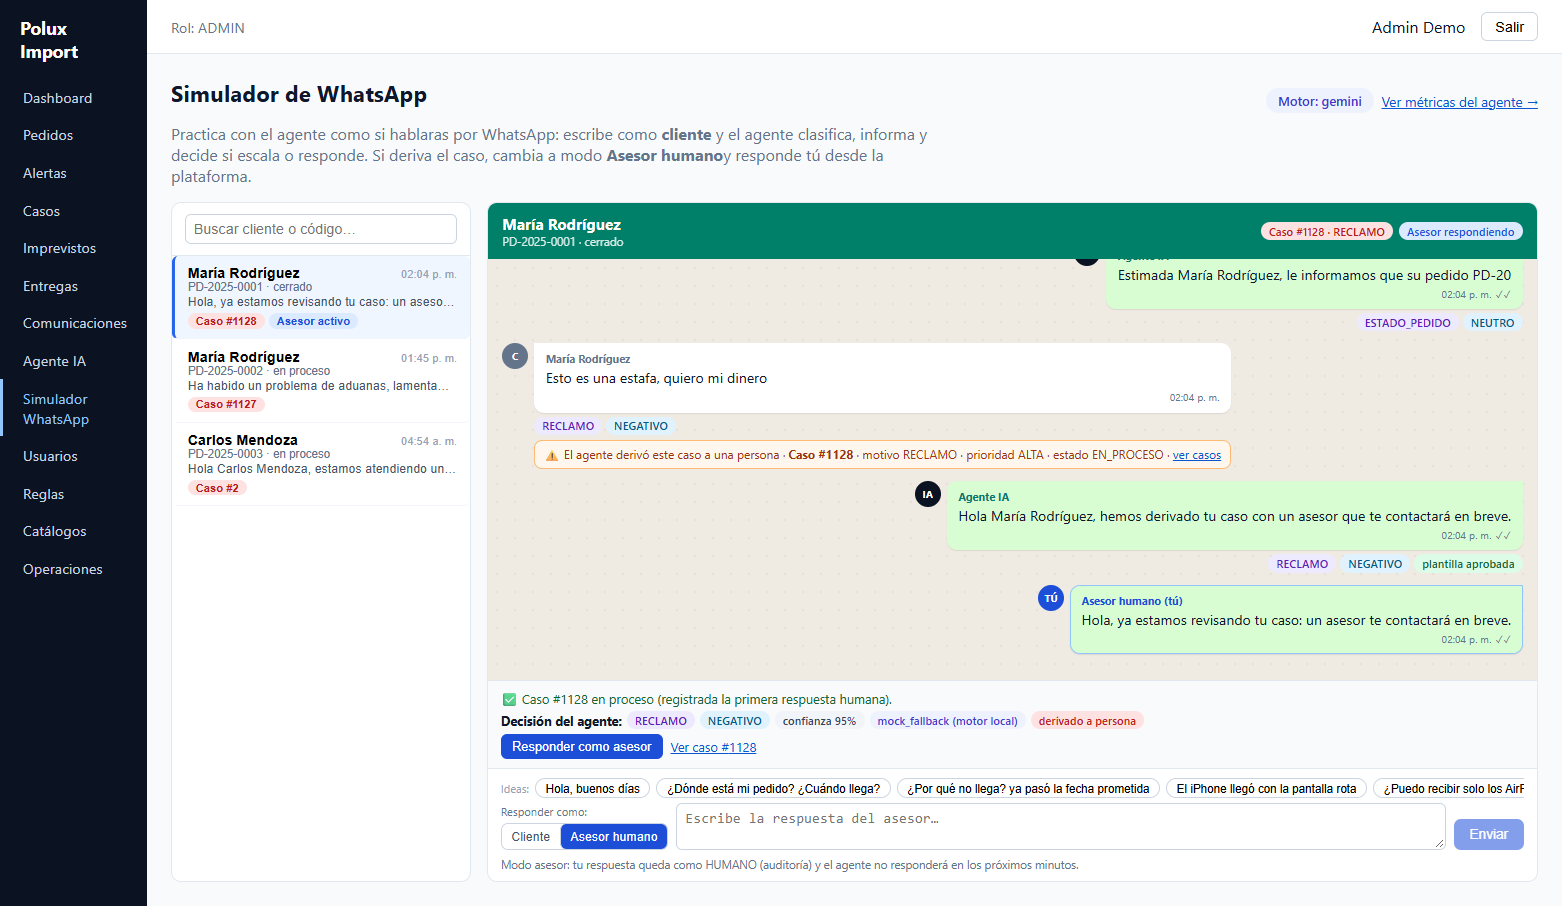
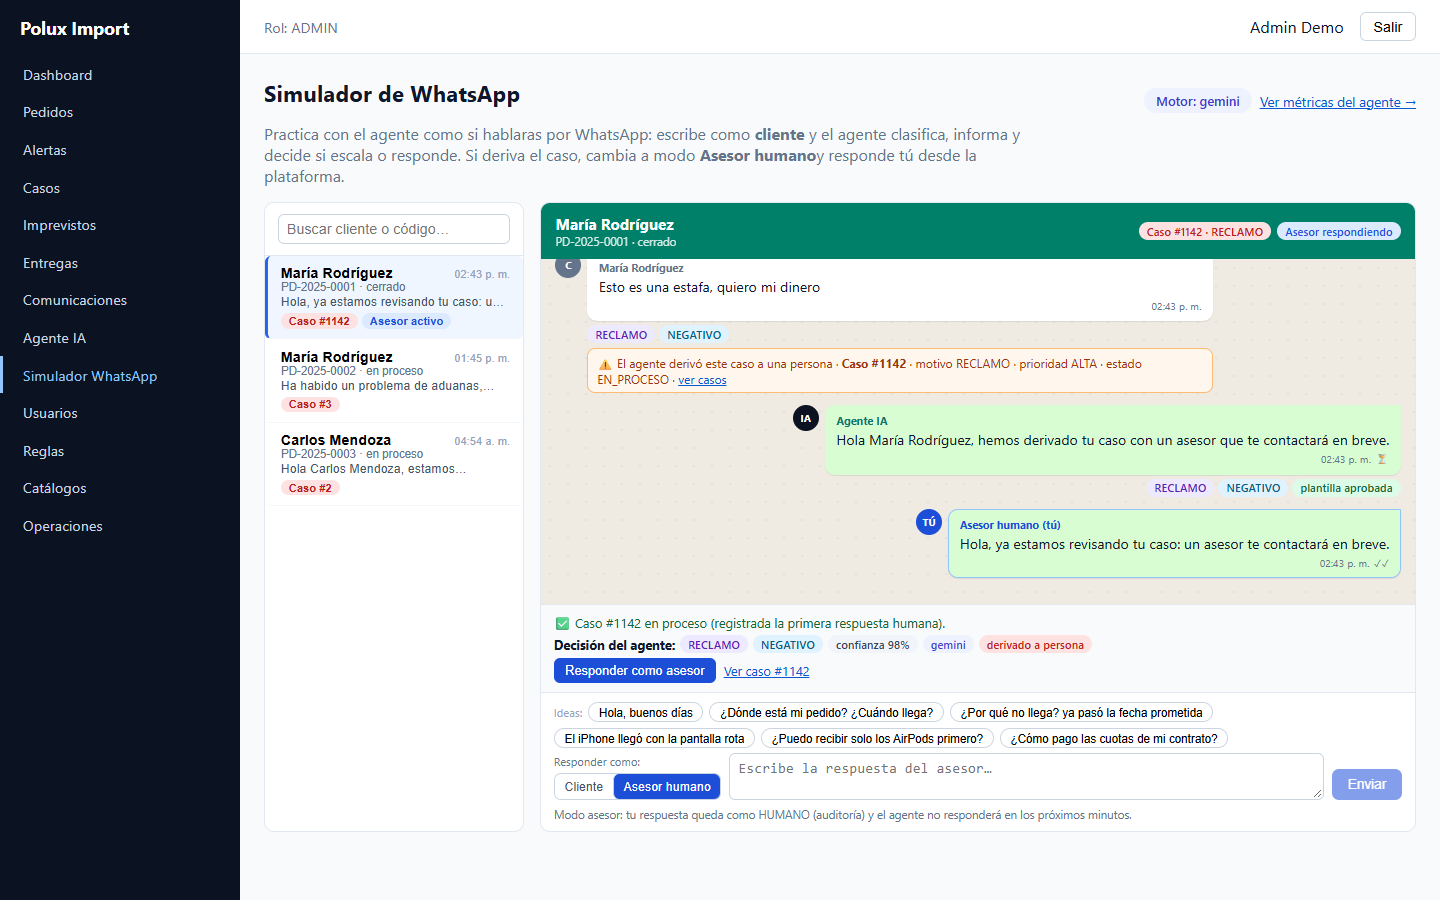
Fix G2: simulador sin desbordamiento y responsive (menu lateral adaptable en movil)
- /simulador: clases .sim-* con min-width 0, alturas con clamp(420px, calc(100vh - 270px), 680px), chips Ideas con wrap (3 en pantallas angostas), previsualizacion del chat con -webkit-line-clamp, formulario con flex-wrap y paneles apilados a <=980px

- Layout: el menu lateral se colapsa a barra superior enrollable a <=760px

- Verificado con Playwright en 10 viewports (390 a 1920): scrollWidth == clientWidth en todos y sin scroll de pagina en escritorio; captura 19 regenerada; docs manual 13, PLAN_FASES y ESTADO_SESION; build + 8 tests frontend y 103 backend en verde

diff --git a/frontend/src/pages/simulador/SimuladorPage.tsx b/frontend/src/pages/simulador/SimuladorPage.tsx
@@ -178,6 +178,40 @@ export function SimuladorPage() {
       <style>{`
         @keyframes polux-parpadeo { 0%, 80%, 100% { opacity: .2 } 40% { opacity: 1 } }
         .polux-punto { animation: polux-parpadeo 1.2s infinite; }
+
+        /* ---- Maquetación responsive del simulador ---- */
+        .sim-fila { display: flex; gap: 1rem; flex-wrap: wrap; align-items: stretch; }
+        .sim-panel {
+          display: flex; flex-direction: column; min-width: 0; overflow: hidden;
+          background: white; border: 1px solid #e2e8f0; border-radius: 10px;
+          height: clamp(420px, calc(100vh - 270px), 680px);
+        }
+        .sim-lista { flex: 0 1 260px; }
+        .sim-chat { flex: 1 1 400px; }
+        .sim-cab { display: flex; align-items: center; justify-content: space-between;
+          gap: .5rem; min-width: 0; }
+        .sim-nombre { font-weight: 700; font-size: .95rem; min-width: 0;
+          overflow: hidden; text-overflow: ellipsis; white-space: nowrap; }
+        .sim-mens {
+          flex: 1; min-width: 0; overflow-y: auto; overflow-x: hidden; padding: .9rem;
+          background: #efeae2;
+          background-image: radial-gradient(rgba(0,0,0,0.045) 1px, transparent 1px);
+          background-size: 18px 18px;
+        }
+        .sim-texto { overflow-wrap: anywhere; word-break: break-word; }
+        .sim-ideas { display: flex; gap: 6px; align-items: center; flex-wrap: wrap;
+          min-width: 0; padding-bottom: 5px; }
+        .sim-form { display: flex; gap: 8px; align-items: flex-end; flex-wrap: wrap;
+          min-width: 0; }
+        .sim-ta { flex: 1 1 180px; min-width: 0; resize: vertical; }
+        .sim-bloque { min-width: 0; }
+        @media (max-width: 980px) {
+          .sim-lista { flex: 1 1 100%; height: 190px; }
+          .sim-chat { flex: 1 1 100%;
+            height: clamp(500px, calc(100vh - 400px), 700px); }
+          /* en pantalla angosta se muestran 3 ideas para no comerse el hilo */
+          .sim-ideas button:nth-child(n+5) { display: none; }
+        }
       `}</style>
 
       <div style={{
@@ -203,13 +237,9 @@ export function SimuladorPage() {
         y responde tú desde la plataforma.
       </p>
 
-      <div style={{ display: "flex", gap: "1rem", flexWrap: "wrap", alignItems: "stretch" }}>
+      <div className="sim-fila">
         {/* ---------- Lista de chats ---------- */}
-        <aside style={{
-          flex: "0 1 300px", background: "white", border: "1px solid #e2e8f0",
-          borderRadius: 10, overflow: "hidden", display: "flex",
-          flexDirection: "column", minHeight: 420, maxHeight: 680,
-        }}>
+        <aside className="sim-panel sim-lista">
           <div style={{ padding: "0.7rem 0.8rem", borderBottom: "1px solid #e2e8f0" }}>
             <input
               value={filtro}
@@ -219,7 +249,7 @@ export function SimuladorPage() {
               aria-label="Buscar cliente o código"
             />
           </div>
-          <div style={{ overflowY: "auto", flex: 1 }}>
+          <div style={{ overflowY: "auto", overflowX: "hidden", flex: 1, minWidth: 0 }}>
             {cargandoChats && <div style={{ padding: "1rem" }}><Loading /></div>}
             {!cargandoChats && visibles.length === 0 && (
               <p style={{ padding: "1rem", color: "#94a3b8", fontSize: "0.85rem" }}>
@@ -256,7 +286,9 @@ export function SimuladorPage() {
                   </div>
                   <div style={{
                     fontSize: "0.78rem", color: "#475569", marginTop: 2,
-                    overflow: "hidden", textOverflow: "ellipsis", whiteSpace: "nowrap",
+                    // una línea con puntos suspensivos: el texto corto no expande el ancho
+                    display: "-webkit-box", WebkitBoxOrient: "vertical",
+                    WebkitLineClamp: 1, overflow: "hidden",
                   }}>
                     {c.total_mensajes === 0
                       ? "Sin mensajes aún"
@@ -277,28 +309,27 @@ export function SimuladorPage() {
         </aside>
 
         {/* ---------- Conversación ---------- */}
-        <section style={{
-          flex: "1 1 460px", background: "white", border: "1px solid #e2e8f0",
-          borderRadius: 10, display: "flex", flexDirection: "column",
-          minHeight: 420, maxHeight: 680, overflow: "hidden",
-        }}>
+        <section className="sim-panel sim-chat">
           {/* Encabezado del chat */}
           <div style={{
             background: "#008069", color: "white", padding: "0.65rem 0.9rem",
-            display: "flex", justifyContent: "space-between",
-            alignItems: "center", gap: "0.5rem",
+            flexShrink: 0,
           }}>
-            <div>
-              <div style={{ fontWeight: 700, fontSize: "0.95rem" }}>
-                {chatActivo ? chatActivo.cliente_nombre : "Selecciona un chat"}
+            <div className="sim-cab">
+              <div style={{ minWidth: 0 }}>
+                <div className="sim-nombre">
+                  {chatActivo ? chatActivo.cliente_nombre : "Selecciona un chat"}
+                </div>
+                <div style={{
+                  fontSize: "0.72rem", opacity: 0.85,
+                  overflow: "hidden", textOverflow: "ellipsis", whiteSpace: "nowrap",
+                }}>
+                  {chatActivo
+                    ? `${chatActivo.codigo} · ${chatActivo.estado_pedido.replace(/_/g, " ").toLowerCase()}`
+                    : "Lista de conversaciones a la izquierda"}
+                </div>
               </div>
-              <div style={{ fontSize: "0.72rem", opacity: 0.85 }}>
-                {chatActivo
-                  ? `${chatActivo.codigo} · ${chatActivo.estado_pedido.replace(/_/g, " ").toLowerCase()}`
-                  : "Lista de conversaciones a la izquierda"}
-              </div>
-            </div>
-            <div style={{ display: "flex", gap: 6, flexWrap: "wrap", justifyContent: "flex-end" }}>
+              <div style={{ display: "flex", gap: 6, flexWrap: "wrap", justifyContent: "flex-end" }}>
               {chatActivo?.caso_abierto_id && (
                 <Chip color="#fee2e2" texto="#b91c1c">
                   Caso #{chatActivo.caso_abierto_id} · {chatActivo.caso_abierto_motivo}
@@ -307,19 +338,13 @@ export function SimuladorPage() {
               {chatActivo?.asesor_reciente && (
                 <Chip color="#dbeafe" texto="#1d4ed8">Asesor respondiendo</Chip>
               )}
+              </div>
             </div>
           </div>
 
           {/* Mensajes */}
           <div
-            style={{
-              flex: 1, overflowY: "auto", padding: "0.9rem",
-              background: "#efeae2",
-              backgroundImage:
-                "radial-gradient(rgba(0,0,0,0.045) 1px, transparent 1px)",
-              backgroundSize: "18px 18px",
-              minHeight: 260,
-            }}
+            className="sim-mens"
           >
             {cargandoHilo && hilo.length === 0 && (
               <div style={{ padding: "1rem" }}><Loading /></div>
@@ -369,7 +394,7 @@ export function SimuladorPage() {
                             ? "Asesor humano (tú)"
                             : "Agente IA"}
                       </div>
-                      <div style={{ fontSize: "0.88rem", whiteSpace: "pre-wrap" }}>
+                      <div className="sim-texto" style={{ fontSize: "0.88rem", whiteSpace: "pre-wrap" }}>
                         {m.contenido}
                       </div>
                       <div style={{
@@ -445,9 +470,9 @@ export function SimuladorPage() {
 
           {/* Última decisión del agente */}
           {(ultimo || aviso) && (
-            <div style={{
+            <div className="sim-bloque" style={{
               borderTop: "1px solid #e2e8f0", background: "#f8fafc",
-              padding: "0.55rem 0.8rem", fontSize: "0.8rem",
+              padding: "0.55rem 0.8rem", fontSize: "0.8rem", flexShrink: 0,
             }}>
               {aviso && (
                 <div style={{ color: "#166534", marginBottom: 4 }}>✅ {aviso}</div>
@@ -507,11 +532,8 @@ export function SimuladorPage() {
           )}
 
           {/* Redacción */}
-          <div style={{ borderTop: "1px solid #e2e8f0", padding: "0.6rem 0.8rem" }}>
-            <div style={{
-              display: "flex", gap: 6, overflowX: "auto",
-              paddingBottom: 5, alignItems: "center",
-            }}>
+          <div className="sim-bloque" style={{ borderTop: "1px solid #e2e8f0", padding: "0.6rem 0.8rem", flexShrink: 0 }}>
+            <div className="sim-ideas">
               <span style={{ fontSize: "0.7rem", color: "#94a3b8", whiteSpace: "nowrap" }}>
                 Ideas:
               </span>
@@ -532,7 +554,7 @@ export function SimuladorPage() {
               ))}
             </div>
 
-            <form onSubmit={enviar} style={{ display: "flex", gap: 8, alignItems: "flex-end" }}>
+            <form onSubmit={enviar} className="sim-form">
               <div style={{ display: "flex", flexDirection: "column", gap: 4 }}>
                 <span style={{ fontSize: "0.7rem", color: "#64748b" }}>
                   Responder como:
@@ -578,10 +600,10 @@ export function SimuladorPage() {
                     ? "Escribe como si fueras el cliente…"
                     : "Escribe la respuesta del asesor…"
                 }
+                className="sim-ta"
                 aria-label={modo === "cliente"
                   ? "Mensaje del cliente"
                   : "Respuesta del asesor"}
-                style={{ flex: 1, resize: "vertical", minWidth: 200 }}
               />
 
               <button

diff --git a/frontend/src/components/Layout.tsx b/frontend/src/components/Layout.tsx
@@ -57,17 +57,45 @@ export function Layout() {
   }, [roles]);
 
   return (
-    <div style={{ display: "flex", minHeight: "100vh", fontFamily: "system-ui" }}>
-      <aside style={{
+    <div className="lay-raiz" style={{ display: "flex", minHeight: "100vh", fontFamily: "system-ui" }}>
+      <style>{`
+        /* Menú lateral que se adapta a pantallas angostas (móvil/tablet) */
+        @media (max-width: 760px) {
+          .lay-raiz { flex-direction: column; }
+          .lay-side {
+            width: 100% !important;
+            flex-direction: row !important;
+            flex-wrap: wrap;
+            align-items: center;
+            gap: 0.15rem;
+            padding: 0.4rem 0.5rem !important;
+          }
+          .lay-brand { padding: 0.35rem 0.6rem !important; white-space: nowrap; }
+          .lay-nav { flex-direction: row !important; flex-wrap: wrap; }
+          .lay-nav a {
+            border-left: none !important;
+            border-bottom: 3px solid transparent !important;
+            padding: 0.45rem 0.65rem !important;
+            white-space: nowrap;
+          }
+          .lay-nav a[aria-current="page"] {
+            border-bottom-color: #93c5fd !important;
+            color: #93c5fd !important;
+          }
+          .lay-top { flex-wrap: wrap; gap: 0.5rem; }
+          .lay-main { padding: 1rem !important; }
+        }
+      `}</style>
+      <aside className="lay-side" style={{
         width: 240, background: "#0b1221", color: "white",
         display: "flex", flexDirection: "column", padding: "1rem 0",
       }}>
-        <div style={{ padding: "0 1.25rem 1rem", fontWeight: 700, fontSize: "1.1rem" }}>
+        <div className="lay-brand" style={{ padding: "0 1.25rem 1rem", fontWeight: 700, fontSize: "1.1rem" }}>
           <Link to="/" style={{ color: "white", textDecoration: "none" }}>
             Polux Import
           </Link>
         </div>
-        <nav style={{ display: "flex", flexDirection: "column" }}>
+        <nav className="lay-nav" style={{ display: "flex", flexDirection: "column" }}>
           {links.map((l) => (
             <NavLink
               key={l.to}
@@ -87,7 +115,7 @@ export function Layout() {
         </nav>
       </aside>
       <div style={{ flex: 1, display: "flex", flexDirection: "column" }}>
-        <header style={{
+        <header className="lay-top" style={{
           display: "flex", justifyContent: "space-between", alignItems: "center",
           padding: "0.75rem 1.5rem", background: "white",
           borderBottom: "1px solid #e2e8f0",
@@ -100,7 +128,7 @@ export function Layout() {
             <button onClick={() => { logout(); nav("/login"); }}>Salir</button>
           </div>
         </header>
-        <main style={{ flex: 1, padding: "1.5rem", background: "#f8fafc" }}>
+        <main className="lay-main" style={{ flex: 1, padding: "1.5rem", background: "#f8fafc" }}>
           <Outlet />
         </main>
       </div>

diff --git a/docs/ESTADO_SESION.md b/docs/ESTADO_SESION.md
@@ -22,6 +22,7 @@
 - **T ✅** — de 17 fallas + 2 errores a **90 tests en verde** y repetibles (2 corridas seguidas, conteos de BD idénticos, cero residuo). Fixes: `tests/db_utils.py` nuevo (`cleanup_pedido` con orden FK seguro + circularidad `comunicacion.caso_id ↔ caso` + borrado de cliente huérfano; `crear_pedido_listo`); cleanups centralizados en 8 archivos de test; fixture `db` añadido a `test_e2e_flow`; `date`→`datetime` en `test_kpis_serie`; 5 tests dejaron de operar sobre el "primer pedido" (demo cerrado → 409) y usan pedido propio; `verify_signature` fail-closed (sin bypass dry_run); `MockProvider` marca daño como NEGATIVO; `GET /` responde; `.env.example` con verify token coherente (`polux-verify-token`) y sin claves duplicadas muertas. Residuo histórico de la BD (13 pedidos, 70 clientes huérfanos, casos/imprevistos de test sobre la demo) purgado
 - **G1 ✅** — Gemini activo: `LLM_PROVIDER=openai` + `LLM_BASE_URL` de Gemini, modelo `gemini-3.1-flash-lite` con `LLM_MODEL_FALLBACK=gemini-3.5-flash` (503 en el principal → respaldo automático, verificado en vivo: clasificó `ESTADO_PEDIDO` en 8.9 s). Frugalidad: `RateGuard` (ventana deslizante `LLM_RPM=5`/60 s, reposo 60 s tras 429 sin reintentar, `LLM_MAX_RETRIES=1` solo para 5xx, presupuesto total `LLM_TIMEOUT_SECONDS=20`, reintento sin `response_format` si el modelo no lo soporta). Cualquier fallo → motor local (mock), `LLMNoDisponible` tipado; `POST /agent/test/classify` ya no devuelve 500 si el LLM cae (usa mock y lo avisa). Tests aislados (`conftest.py` fuerza `LLM_PROVIDER=mock`) + `tests/test_llm_provider.py` (8 tests: cuota, RateGuard, confianza) → **98 tests en verde**. Docs: `01`, `04` (§5 y §11), `06`, `PLAN_FASES`, `.env.example` (sin la key)
 - **G2 ✅** — Simulador de chat WhatsApp `/simulador` (menú ADMIN/OPERADOR): bandeja `GET /agent/chats` (un chat por pedido: cliente, último mensaje, caso abierto, sello «Asesor activo»), hilo `GET /agent/thread` = **`comunicaciones` por `pedido_id`** (sin tablas nuevas), barra única con modos **Cliente/Asesor**, burbujas con clasificación y plantilla, tarjeta de decisión (intención/sentimiento/confianza/motor/fallback), banner «derivado a persona» con enlace al caso, indicador de escribiento y chips de ideas. `POST /agent/human-reply` (OPERADOR+): SALIENTE `autor=HUMANO`, `estado_entrega=SENT`, `created_by` real, caso → `EN_PROCESO` + `fecha_primera_accion`, y `_human_in_progress` (10 min) hace que el agente **ceda el paso** (lo indica la UI). 5 tests de backend → **103 en verde**; 3 tests de UI → 8 en verde + `npm run build` ok; e2e **14/14** (`frontend/scripts/verificar-g2.mjs`, temporal); captura **19-simulador-whatsapp** (las 19 regeneradas); manual `05` §13 nuevo + fila de roles; docs `01`, `04` (§7.4 con diagrama de secuencia), `06`, `PLAN_FASES`
+- **Fix post-G2 (2026-11-10)** — `/simulador` **sin desbordamiento y responsive**: medido con Playwright en 10 viewports (390→1920) `scrollWidth == clientWidth` en todos y sin scroll de página en escritorio. Causas: fila de chips «Ideas» con `nowrap` (~1340 px de ancho intrínseco), previsualización del chat en `nowrap` (~540 px) y alturas fijas de 680 px. Cambios: clases `.sim-*` con `min-width: 0`, altura `clamp(420px, calc(100vh - 270px), 680px)`, chips «Ideas» con wrap (y solo 3 en ≤980 px), previsualización con `-webkit-line-clamp`, `flex-wrap` en el formulario y paneles apilados ≤980 px; además el **menú lateral colapsa a barra superior enrollable ≤760 px** (`Layout.tsx`). Captura 19 regenerada; `npm run build` + 8 tests frontend en verde. BD restaurada (comms 14 = 10 demo + 4 tuyos, casos 3, fc 17, fh 10)
 - **Siguiente**: plan original completo (0 → A → Docs I → B → Docs II → C → T → G1 → G2). Futuro opcional: C2 Telegram
 - **C2 futuro**: Telegram (definido en 04-agente.md); n8n descartado (justificado en doc); LLM = Gemini vía endpoint OpenAI-compatible (solo `.env`)
 

diff --git a/docs/PLAN_FASES.md b/docs/PLAN_FASES.md
@@ -133,7 +133,7 @@ estado estable (o al terminar un bloque de documentación).
 | **C. UI del agente** | Página del agente IA + botones crear caso/imprevisto/comunicación (C1-C4) | Flujo completo desde la UI sin tocar la API a mano | ✅ |
 | **T. Suite de tests** | Reparar los ~13 tests rotos: aislamiento de BD (o DB de test separada), orden de teardown por FKs, `datetime.date` vs datetime con tz, ruta `/`, validación de firma de webhook | `pytest -q` en verde | ✅ (2026-11-10) — 90 tests verdes y repetibles (2 corridas, cero residuo en BD) |
 | **G1. Gemini activo** | Activar el LLM real (`LLM_PROVIDER=openai` + endpoint Gemini), con cortesía con la cuota (ventana RPM, reposo tras 429, modelo respaldo, motor local) y tests aislados de la cuota | `GET /agent/provider` → `gemini` y clasificación real verificada; suite en verde sin gastar cuota | ✅ (2026-11-10) |
-| **G2. Simulador de chat WhatsApp** | Página que simula un chat de WhatsApp real: el agente recibe, clasifica, informa y toma acciones (caso/escalamiento); el humano responde desde la plataforma cuando el agente deriva | Flujo completo desde la UI (cliente → agente → escalamiento → respuesta humana) + manual y captura | ✅ (2026-11-10) — `GET /agent/chats`, `GET /agent/thread`, `POST /agent/human-reply`; página `/simulador` (bandeja, burbujas, modos Cliente/Asesor); 5 tests nuevos (103 en verde) + 3 tests de UI; e2e 14/14; captura 19 y manual §13 |
+| **G2. Simulador de chat WhatsApp** | Página que simula un chat de WhatsApp real: el agente recibe, clasifica, informa y toma acciones (caso/escalamiento); el humano responde desde la plataforma cuando el agente deriva | Flujo completo desde la UI (cliente → agente → escalamiento → respuesta humana) + manual y captura | ✅ (2026-11-10) — `GET /agent/chats`, `GET /agent/thread`, `POST /agent/human-reply`; página `/simulador` (bandeja, burbujas, modos Cliente/Asesor); 5 tests nuevos (103 en verde) + 3 tests de UI; e2e 14/14; captura 19 y manual §13; fix posterior de maquetación responsive (sin desbordamiento en 10 viewports, menú lateral adaptable en móvil) |
 | **C2 (posterior)** | Canal Telegram (definido en `04-agente.md` durante Docs I) | Demo del agente respondiendo por Telegram | ⏳ futuro |
 
 ---

diff --git a/docs/05-manual-usuario.md b/docs/05-manual-usuario.md
@@ -422,7 +422,8 @@ en el sistema. Sirve para comprobar cómo reaccionaría.
 **¿Qué es?** Una pantalla que imita una conversación real de WhatsApp
 (burbujas y lista de chats). Sirve para probar al agente de punta a
 punta y para que una persona responda desde la plataforma cuando el
-agente deriva un caso.
+agente deriva un caso. La pantalla se adapta al tamaño de la ventana:
+si es angosta, la lista de chats queda arriba y el hilo debajo.
 
 Disponible para **Administradores** y **Operadores** (menú
 **Simulador WhatsApp**):
